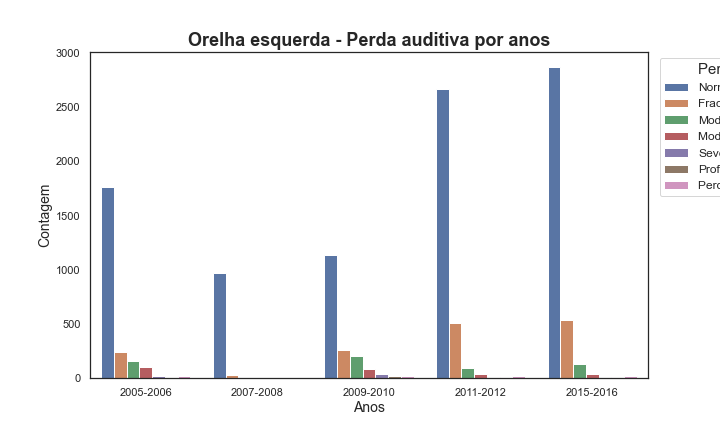
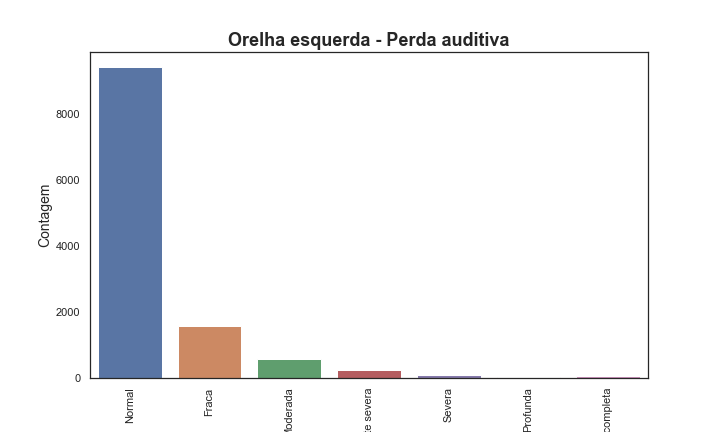
adds more information to report

diff --git a/README.md b/README.md
@@ -83,6 +83,79 @@ As variáveis disponíveis foram avaliadas individualmente perante sua relevânc
 Os dados foram apresentados nas planilhas por meio de códigos, e para possibilitar a priorização dos que nos eram importantes, utilizamos o dicionário fornecido pelo próprio NHANES e presente em sua base de dados.
 Exemplo: AUXOTSPL referia-se a Normal: Left Ear Otoscopy.
 
+Cada tabela da NHANES vem como um arquivo XPT (SAS), sendo SEQN a chave única responsável por conectar as respostas de cada indivíduos nas diferentes tabelas. Em especial, focamos nas tabelas DEMO (dados demográficos), AUQ (dados de audiometria), AUX (dados de audiometria), AUXAR (dados de reflexo acústico de audiometrias) e AUXTYM (dados de timpanometria) de cada ano de pesquisa.
+
+# Análise exploratória
+
+Começou-se gerando uma única tabela com os dados de interesse para todos os anos.
+
+Após verificar todo o dicionário (dos subitens dados de exames e dados de questionário), foram selecionados quais seriam os códigos de variáveis referentes a dados adequados à pesquisa. Estes códigos foram organizados de tal forma a iniciar a análise exploratória destes dados.
+
+Foram observados padrões de apresentações no dicionário, visto que os códigos que se iniciavam com A se referiam a audiometria, tanto nos dados de exame como nos dados do questionário.
+
+No entanto, determinadas informações eram divergentes visto que, no decorrer dos anos, algumas perguntas foram modificadas, adicionadas ou removidas do questionário. No caso de modificações referentes a formatos, optou-se por utilizar valores em uma mesma medida (por exemplo, datas com valores em meses e anos, optou-se por se utilizar os valores em anos).
+
+A definição de alguns códigos foi reescrita de forma individual com objetivo de padronizar os parâmetros para comparação (por exemplo a alteração de “INDFMPIR: family PIR” para “INDFMPIR: Ratio of family income to poverty”, uma vez que equivalem ao mesmo código). Possibilitando assim que todos os códigos presentes em todos os anos se referissem ao mesmo parâmetro de análise.
+
+Outro aspecto relevante a ser relatado foi o exame de timpanometria (exame que faz parte da avaliação auditiva), que no último ano selecionado para análise apresentou um padrão de respostas diferente do que havia nos outros anos.
+
+De acordo com critérios audiológicos, seguimos passos para reduzirmos possíveis vieses na análise dos dados, para direcionarmos a alterações auditivas que provavelmente estariam associadas à exposição ao ruído (como por exemplo, somente selecionar indivíudos com a otoscopia considerada normal. Nota: otoscopia é o exame que analisa as condições do meato acústico interno e membrana timpânica). 
+
+| **Ano**     | **Orelha Esquerda: Otoscopia Normal** | **Percentual de Normais** |
+|-------------|---------------------------------------|---------------------------|
+| 2005 - 2006 |                                  2299 |                    82,43% |
+| 2007 - 2008 |                                   999 |                    86,95% |
+| 2009 - 2010 |                                  1729 |                    77,57% |
+| 2011 - 2012 |                                  3328 |                    85,16% |
+| 2015 - 2016 |                                  3561 |                    83,14% |
+
+
+| **Ano**     | **Orelha Direita: Otoscopia Normal** | **Percentual de Normais** |
+|-------------|--------------------------------------|---------------------------|
+| 2005 - 2006 |                                 2345 |                    84,08% |
+| 2007 - 2008 |                                 1004 |                    87,38% |
+| 2009 - 2010 |                                 1774 |                    79,59% |
+| 2011 - 2012 |                                 3372 |                    86,28% |
+| 2015 - 2016 |                                 3631 |                    84,78% |
+
+Outro aspecto importante na analise destes dados foi: alguns indivíduos foram submetidos ao reteste e outros não. Isso aconteceu por conta de um fenômeno que ocorre na audição chamado de audição cruzada. Quando percebeu-se a presença disto, ou seja, a influência de uma orelha na resposta da outra orelha, os limiares auditivos destes inidivíudos foram retestados com outro tipo de fone de ouvido para a testagem (no intuito de reduzir esta interferência). Para tanto, em nossa análise, foram utilizados os dados de teste para os indivíudos que não necessitaram de reteste e os dados de reteste para aqueles que necessitaram. Ou seja, foram também realizados filtros nos dados existentes para este direcionamento.
+
+Durante o processo de pré procesamento dos dados, foram elencados passos a serem seguidos para, em primeiro lugar, determinar, para cada sujeito, se havia ou não uma perda auditiva (e, se houvesse, qual o seu grau). Para isso foi aplicado o cálculo de classificação de grau de perda auditiva da Organização Mundial de Saúde, onde se determinam as médias entre as frequências de 500Hz, 1kHz, 2kHz e 4kHz, por orelha. O grau de perda é definido segundo o quadro abaixo, referente à classificação de grau de perda auditiva (Organização Mundial da Saúde, 2020) (1).
+
+![Grau de perda auditiva - OMS](images/oms.png)
+
+Isso é necessário para conseguirmos posteriormente fazer as relações com as respostas ao questionário sobre a exposição ao ruído e buscar identificar quais são as possíveis associações.
+
+Neste momento de análise, filtramos os dados para apenas pessoas com otoscopia normal, totalizando 11.916 indivíduos para a orelha esquerda e 12.126 para a orelha direita.
+
+Dentro de todo material de dados, não foram verificados dados faltantes. Desta forma, nesta etapa de análise, não foi preciso utilizar nenhuma estratégia futura para os missing datas.Isto porque já havia sido feita uma análise prévia e sido selecionado os períodos que possuíam os dados que nós necessitávamos.
+
+Os níveis calculados de perda auditiva foram plotados com as demais variáveis, e observou-se no decorrer dos anos um padrão de repetição na correlação negativa entre os níveis de ruído e a capacidade auditiva (ou seja, diminuição da capacidade auditiva relacionada ao aumento dos níveis de ruído). Dentro desta correlação foi possível observar a correlação entre a perda auditiva e os ruídos de origem não laboral, indicando uma possível correlação com um aumento do uso de fones de ouvido ou outras fontes de ruído no período de 2005-2016.
+
+![Orelha Esquerda Médias quadritonais](images/quad_left.png)
+
+![Orelha Direita Médias quadritonais](images/quad_right.png)
+
+As médias quadritonais para ambas as orelhas seguem distribuição muito próxima (e, de fato, ambas possuem mesma mediana, 8,75) e bastante assimétrica.
+
+![Orelha esquerda - Perda auditiva](images/class_left.png)
+
+![Orelha direita - Perda auditiva](images/class_right.png)
+
+![Orelha esquerda - Perda auditiva por ano](images/class_year_left.png)
+
+![Orelha direita - Perda auditiva por ano](images/class_year_right.png)
+
+As visualizações da classificação de perda auditiva por anos são interessantes para ver a magnitude da proporção de medidas de cada tipo, mas torna a comparação através dos anos muito difícil.
+
+![Orelha esquerda - Perda auditiva por ano](images/class_year_cum_left.png)
+
+![Orelha direita - Perda auditiva por ano](images/class_year_cum_right.png)
+
+Por outro lado, a avaliação acumulada e normalizada em percentuais (a barra de cada ano equivale a 100% dos valores daquele ano) não entrega indícios claros de que há diferença da classificação de perda em relação aos anos, o que refutaria a nossa hipotese de que houve aumento da prevalência de perda auditiva.
+
+Uma análise utilizando os dados demográficos ainda será realizada para verificar algum indicativo significativo da perda auditiva por ruído não laboral. Posteriormente uma análise referente ao uso de fones de ouvido será incluída para verificar a conexão entre as correlações aqui descobertas. Nesta etapa, uma nova base de dados deverá ser utilizada.
+
 
 # Ferramentas
 
@@ -99,7 +172,7 @@ Exemplo: AUXOTSPL referia-se a Normal: Left Ear Otoscopy.
 
 # Cronograma
 
-De acordo com com o planejamento das entregas propostos pela disciplina (Plano de projeto - E1 em 13 de abril; Base de Dados de Trabalho - E2 em 11 de maio; Entrega Final (EF) em 24 de junho e Apresentações (AP) em 24, 29 de junho e 1 de julho), segue abaixo:
+De acordo com com o planejamento das entregas propostos pela disciplina (Plano de projeto - E1 em 13 de abril; Base de Dados de Trabalho - E2 em 25 de maio; Entrega Final (EF) em 24 de junho e Apresentações (AP) em 24, 29 de junho e 1 de julho), segue abaixo:
 
 | Momento                            | 1ª quinzena de abril | 2ª quinzena de abril | 1ª quinzena de maio | 2ª quinzena de maio | 1ª quinzena de junho | 2ª quinzena de junho |
 |------------------------------------|----------------------|----------------------|---------------------|---------------------|----------------------|----------------------|
